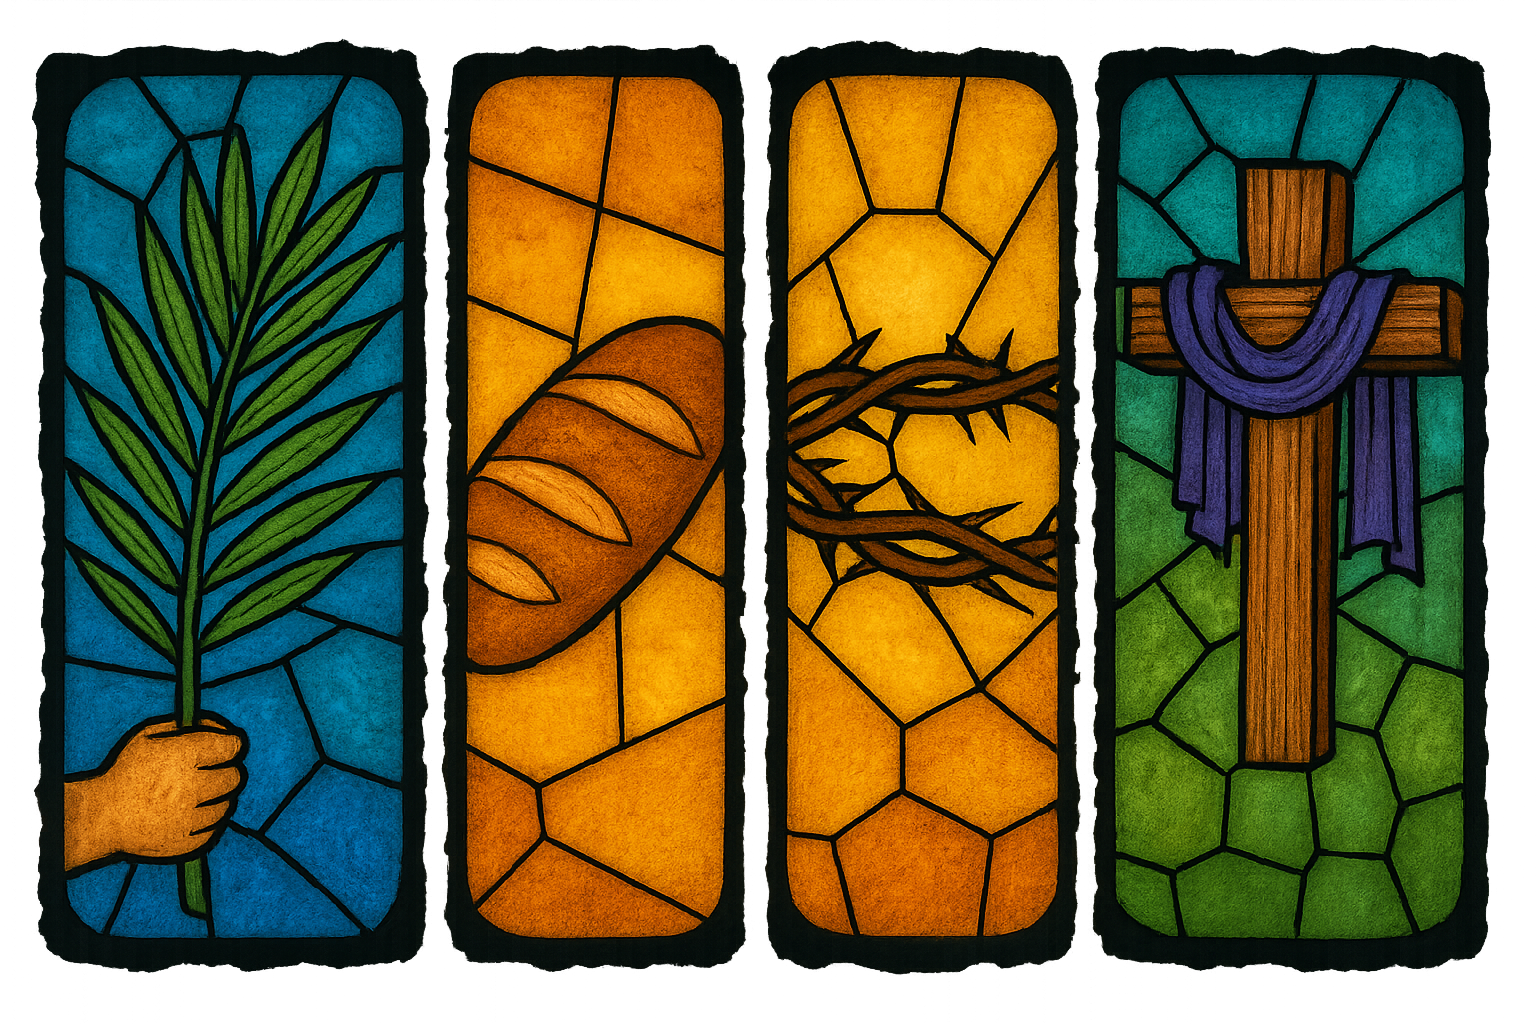
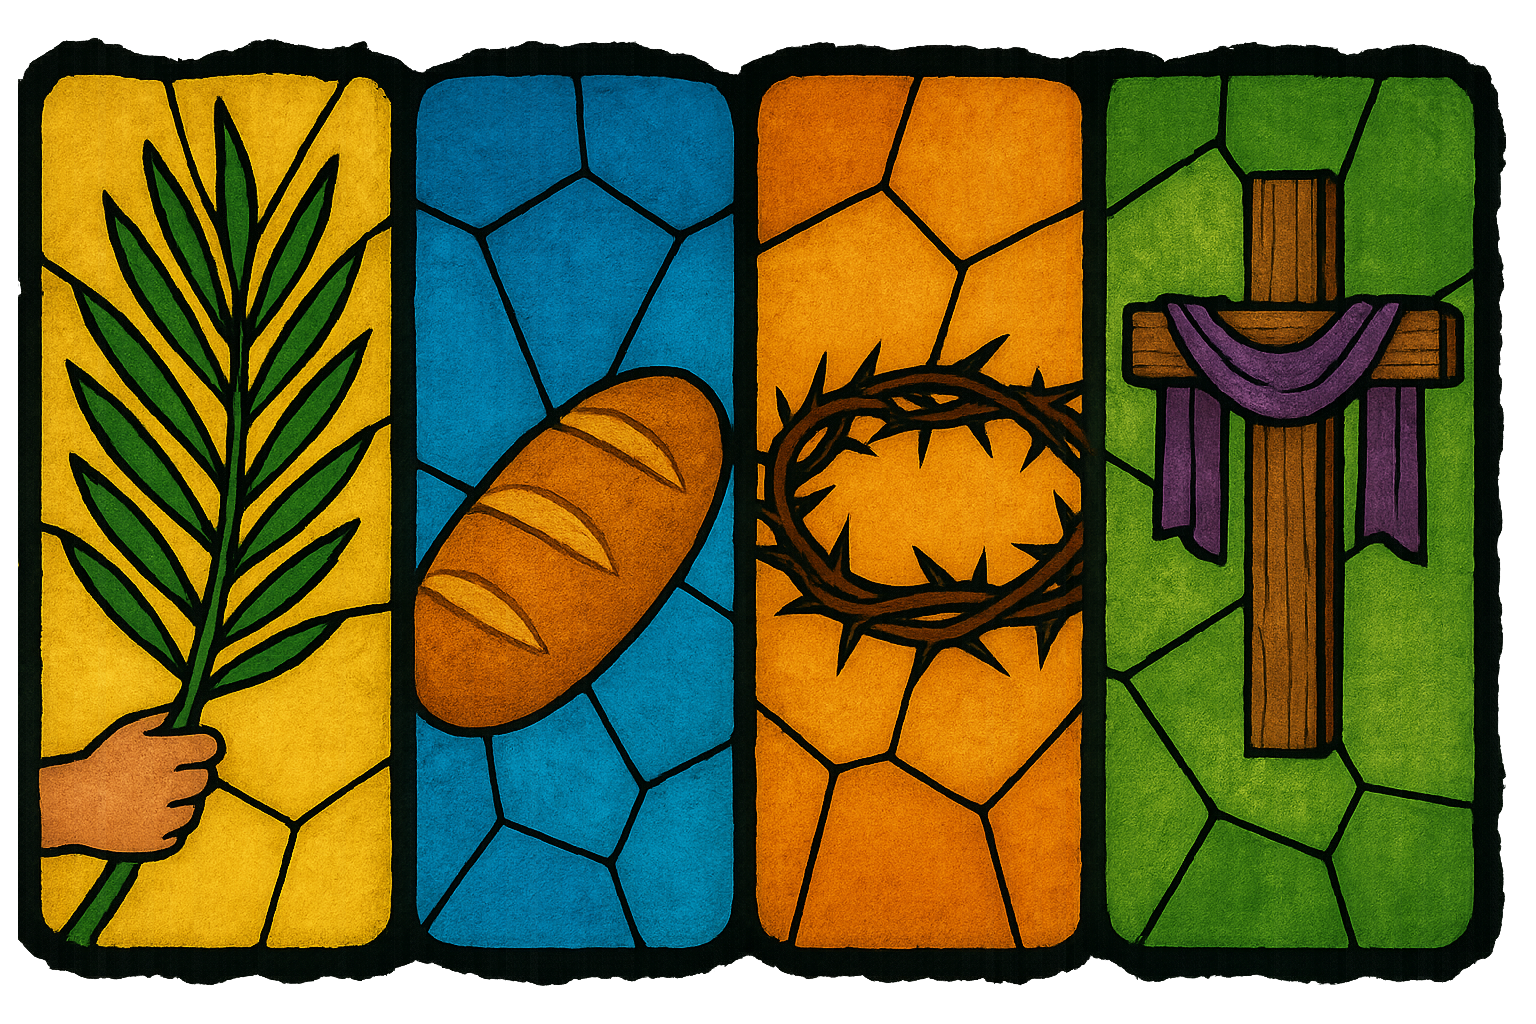
updated links and graphics

diff --git a/_posts/2025-04-17-holy-week.md b/_posts/2025-04-17-holy-week.md
@@ -6,101 +6,100 @@ tags: [easter, liturgy, church-history]
 ---
 <div style="text-align: center; margin: 20px 0;">
   <img src="/assets/images/holy-week.png" alt="AI Generated image of Holy Week" style="max-width: 100%; height: auto;">
+  <h5>“The Son of God became a man to enable men to become sons of God.”<br /> 
+ — C.S. Lewis, *Mere Christianity</h5>
 </div>
-
-> “The Son of God became a man to enable men to become sons of God.”  
-> — C.S. Lewis, *Mere Christianity*
 
 The week leading up to Easter represents the most significant period in the Christian liturgical calendar, commemorating the final days of Jesus Christ's life, his crucifixion, and his resurrection. Holy Week's observances have evolved over nearly two millennia, shaped by theological developments, cultural influences, and historical circumstances. Here we explore each day of Holy Week, from its earliest historical references to contemporary liturgical practices across Christian traditions.
 
 ## The Historical Development of Holy Week
 
-Holy Week observances trace back to the earliest centuries of Christianity, evolving from simple commemorations to the elaborate liturgical sequence we recognize today. The Paschal fast of Holy Week is considered the most ancient part of the Great Fast (Lent), already well attested by the second century in conjunction with the rites of Christian initiation through baptism[^7]. Initially spanning just one or two days, this fast lengthened to four and then to a full six days by the third century[^7].
+Holy Week observances trace back to the earliest centuries of Christianity, evolving from simple commemorations to the elaborate liturgical sequence we recognize today. The Paschal fast of Holy Week is considered the most ancient part of the Great Fast (Lent), already well attested by the second century in conjunction with the rites of Christian initiation through baptism[^6]. Initially spanning just one or two days, this fast lengthened to four and then to a full six days by the third century[^6].
 
-Dionysius of Alexandria, writing around 260 CE, provides one of the earliest sources for an incipient ritual of Holy Week in his Letter to Basiliades[^7]. By this period, Christians were already observing special fasting practices during the days leading to Easter. The Apostolical Constitutions (v. 18, 19), dating from the latter half of the 3rd century and 4th century, contains the earliest allusion to marking this week with special observances, commanding abstinence from flesh for all days and an absolute fast for Friday and Saturday[^1].
+Dionysius of Alexandria, writing around 260 CE, provides one of the earliest sources for an incipient ritual of Holy Week in his Letter to Basiliades[^6]. By this period, Christians were already observing special fasting practices during the days leading to Easter. The Apostolical Constitutions (v. 18, 19), dating from the latter half of the 3rd century and 4th century, contains the earliest allusion to marking this week with special observances, commanding abstinence from flesh for all days and an absolute fast for Friday and Saturday[^1].
 
-The fourth century brought tremendous development in Holy Week rituals, catalyzed by Constantine's conversion, the influx of new converts, and imperial interest in holy places[^7]. The most valuable historical account from this period comes from Egeria (sometimes called Etheria), a Spanish-Roman woman who pilgrimaged to the Holy Land between 381–384 CE[^5][^9][^13]. Her detailed diary provides the earliest complete description of the early church's liturgical celebration of Holy Week[^9].
+The fourth century brought tremendous development in Holy Week rituals, catalyzed by Constantine's conversion, the influx of new converts, and imperial interest in holy places[^6]. The most valuable historical account from this period comes from Egeria (sometimes called Etheria), a Spanish-Roman woman who pilgrimaged to the Holy Land between 381–384 CE[^4][^8][^11]. Her detailed diary provides the earliest complete description of the early church's liturgical celebration of Holy Week[^8].
 
 ## Palm Sunday: The Triumphal Entry
 
-Palm Sunday commemorates Christ's entry into Jerusalem, marking the beginning of Holy Week[^1][^8][^12]. The biblical accounts (Matthew 21:1–11, Mark 11:1–11, Luke 19:28–44, and John 12:12–19) describe Jesus riding into Jerusalem on a donkey while crowds spread cloaks and palm branches on the road, shouting "Hosanna!" — fulfilling the prophecy from Zechariah 9:9[^11][^14].
+Palm Sunday commemorates Christ's entry into Jerusalem, marking the beginning of Holy Week[^1][^7][^10]. The biblical accounts (Matthew 21:1–11, Mark 11:1–11, Luke 19:28–44, and John 12:12–19) describe Jesus riding into Jerusalem on a donkey while crowds spread cloaks and palm branches on the road, shouting "Hosanna!" — fulfilling the prophecy from Zechariah 9:9[^9][^12].
 
-The earliest known record of Palm Sunday observance comes from Egeria's travel diaries[^4][^9]. She described how believers in Jerusalem would gather near the Mount of Olives and then process down the mountain carrying palm or olive branches, singing psalms including Psalm 118, with the refrain "Blessed is he who comes in the name of the Lord"[^9].
+The earliest known record of Palm Sunday observance comes from Egeria's travel diaries[^3][^8]. She described how believers in Jerusalem would gather near the Mount of Olives and then process down the mountain carrying palm or olive branches, singing psalms including Psalm 118, with the refrain "Blessed is he who comes in the name of the Lord"[^8].
 
-In contemporary practice, Palm Sunday liturgies typically include three forms of observance: a full procession, a solemn entrance, or a simple rite[^4]. The service often transitions from joyful celebration to a solemn reading of the Passion narrative[^1][^9].
+In contemporary practice, Palm Sunday liturgies typically include three forms of observance: a full procession, a solemn entrance, or a simple rite[^3]. The service often transitions from joyful celebration to a solemn reading of the Passion narrative[^1][^8].
 
 ## Holy Monday and Tuesday: Days of Teaching and Confrontation
 
 ### Holy Monday
 
-On the day after his triumphal entry, Jesus returned to Jerusalem from Bethany, cursing the barren fig tree (symbolizing judgment on fruitless faith) and cleansing the Temple[^8][^14]. The Gospel of Matthew 21:18–43 is typically read on this day[^6].
+On the day after his triumphal entry, Jesus returned to Jerusalem from Bethany, cursing the barren fig tree (symbolizing judgment on fruitless faith) and cleansing the Temple[^7][^12]. The Gospel of Matthew 21:18–43 is typically read on this day[^5].
 
-In the Eastern Orthodox tradition, Holy Monday introduces the "Bridegroom" theme, focusing on watchfulness, symbolized by the Bridegroom coming "in the midst of the night"[^6].
+In the Eastern Orthodox tradition, Holy Monday introduces the "Bridegroom" theme, focusing on watchfulness, symbolized by the Bridegroom coming "in the midst of the night"[^5].
 
 ### Holy Tuesday
 
-Holy Tuesday continues Christ's teachings in Jerusalem, highlighting the parables of the Ten Virgins and the Talents[^8][^14]. Orthodox services continue the Bridegroom theme with hymns stressing spiritual preparedness[^6].
+Holy Tuesday continues Christ's teachings in Jerusalem, highlighting the parables of the Ten Virgins and the Talents[^7][^12]. Orthodox services continue the Bridegroom theme with hymns stressing spiritual preparedness[^5].
 
 ## Holy Wednesday (Spy Wednesday): The Betrayal
 
-Spy Wednesday commemorates Judas Iscariot’s betrayal of Jesus for thirty pieces of silver[^1][^8][^14]. In the East, it includes the final Presanctified Liturgy and the Holy Unction service[^6]. In the West, traditions include the Tenebrae service and Chrism Mass[^2][^10].
+Spy Wednesday commemorates Judas Iscariot’s betrayal of Jesus for thirty pieces of silver[^1][^7][^12]. In the East, it includes the final Presanctified Liturgy and the Holy Unction service[^5]. In the West, traditions include the Tenebrae service and Chrism Mass.
 
 ## Maundy Thursday: The Last Supper
 
-Maundy Thursday commemorates the Last Supper, the institution of the Eucharist, foot washing, and Jesus' agony in Gethsemane[^1][^2][^6][^8]. The term "Maundy" comes from *mandatum* — "a new commandment I give you" (John 13:34)[^2].
+Maundy Thursday commemorates the Last Supper, the institution of the Eucharist, foot washing, and Jesus' agony in Gethsemane[^1][^5][^7]. The term "Maundy" comes from *mandatum* — "a new commandment I give you" (John 13:34).
 
 Liturgical highlights include:
 
-1. The Washing of Feet[^2][^6][^10]  
-2. The Mass of the Lord's Supper[^2][^10]  
-3. The altar stripping[^2]  
-4. The transfer and adoration of the Blessed Sacrament[^2]  
+1. The Washing of Feet[^5] 
+2. The Mass of the Lord's Supper
+3. The altar stripping  
+4. The transfer and adoration of the Blessed Sacrament  
 
-Orthodox services feature the Liturgy of St. Basil and the Twelve Passion Gospels[^6]. Egeria noted the Jerusalem faithful kept vigil at the Mount of Olives without eating afterward[^9].
+Orthodox services feature the Liturgy of St. Basil and the Twelve Passion Gospels[^5]. Egeria noted the Jerusalem faithful kept vigil at the Mount of Olives without eating afterward[^8].
 
 ## Good Friday: The Crucifixion
 
-Good Friday solemnly marks Christ's crucifixion[^1][^2][^6][^8]. Egeria describes how the faithful gathered at Golgotha for readings and prayer during the hours Christ hung on the cross[^5][^9].
+Good Friday solemnly marks Christ's crucifixion[^1][^5][^7]. Egeria describes how the faithful gathered at Golgotha for readings and prayer during the hours Christ hung on the cross[^4][^8].
 
 Western liturgy typically includes:
 
-1. The Liturgy of the Word[^2][^10]  
-2. The Veneration of the Cross[^2][^10]  
-3. Communion from reserved hosts[^2]  
-4. The Stations of the Cross[^4][^5]  
+1. The Liturgy of the Word
+2. The Veneration of the Cross
+3. Communion from reserved hosts  
+4. The Stations of the Cross[^3][^4]  
 
-In Orthodoxy, the Royal Hours, Vespers of the Taking Down, and the Epitaphios procession are central[^6][^11]. Fasting is observed strictly across traditions[^1][^7].
+In Orthodoxy, the Royal Hours, Vespers of the Taking Down, and the Epitaphios procession are central[^5][^9]. Fasting is observed strictly across traditions[^1][^6].
 
 ## Holy Saturday: The Tomb
 
-Holy Saturday remembers Christ's rest in the tomb[^1][^8][^14]. It culminates in the Easter Vigil — the oldest Christian liturgical observance, as described by Egeria[^15].
+Holy Saturday remembers Christ's rest in the tomb[^1][^7][^12]. It culminates in the Easter Vigil — the oldest Christian liturgical observance, as described by Egeria[^13].
 
 Key components of the Vigil:
 
 1. The Service of Light[^1]  
-2. Liturgy of the Word (up to 9 readings)[^1][^2]  
-3. Baptismal rites[^1][^2][^10]  
-4. Eucharist — the first Mass of Easter[^1][^2]  
+2. Liturgy of the Word (up to 9 readings)[^1]  
+3. Baptismal rites[^1]
+4. Eucharist — the first Mass of Easter[^1]  
 
-Orthodox tradition includes the Divine Liturgy of St. Basil, transitioning from dark vestments to white[^6][^11].
+Orthodox tradition includes the Divine Liturgy of St. Basil, transitioning from dark vestments to white[^5][^9].
 
 ## Easter Sunday: The Resurrection
 
-Easter Sunday celebrates Christ’s resurrection, the cornerstone of Christian faith[^1][^2][^6][^8]. Though technically begun at the Vigil, Easter Sunday continues the celebration with joy.
+Easter Sunday celebrates Christ’s resurrection, the cornerstone of Christian faith[^1][^5][^7]. Though technically begun at the Vigil, Easter Sunday continues the celebration with joy.
 
-The term "Easter" has pagan roots, though most languages use “Pascha,” linking it to Passover[^1]. Orthodox services begin with a midnight procession and the call: “Christ is Risen!” — answered, “Indeed He is Risen!”[^6][^11].
+The term "Easter" has pagan roots, though most languages use “Pascha,” linking it to Passover[^1]. Orthodox services begin with a midnight procession and the call: “Christ is Risen!” — answered, “Indeed He is Risen!”[^5][^9].
 
 ## The Paschal Triduum: A Liturgical Unity
 
-Maundy Thursday to Easter Sunday is one unified liturgical celebration[^2][^10]. No final blessing on Thursday, no opening or closing on Friday, and no intro rites at the Vigil — each service flows into the next.
+Maundy Thursday to Easter Sunday is one unified liturgical celebration. No final blessing on Thursday, no opening or closing on Friday, and no intro rites at the Vigil — each service flows into the next.
 
-> "These great ceremonies are most truly understood as a single liturgy spread out over three days"[^2][^10].
+> "These great ceremonies are most truly understood as a single liturgy spread out over three days".
 
 ## Conclusion
 
 Holy Week stands as Christianity’s most profound liturgical period. From Egeria’s fourth-century diary to modern practice, its structure endures. Through Palm branches, Crosses, firelight, silence, water, oil, bread, and wine, the Church leads the faithful to relive Christ’s Passion and Resurrection.
 
-> “The purpose of Holy Week is to reenact, relive, and participate in the passion of Jesus Christ.”[^3]
+> “The purpose of Holy Week is to reenact, relive, and participate in the passion of Jesus Christ.”[^2]
 
 ### Additional Reading
 
@@ -113,17 +112,15 @@ Holy Week stands as Christianity’s most profound liturgical period. From Egeri
 ### Sources
 
 [^1]: [Holy Week - Wikipedia](https://en.wikipedia.org/wiki/Holy_Week)  
-[^2]: [THE LITURGY OF HOLY WEEK: entering the Paschal Mystery](https://spiritualdirection.com/wp-content/uploads/2015/03/the-liturgy-of-holy-week.pdf)  
-[^3]: [An Introduction to the Holy Week - Catholic News Agency](https://www.catholicnewsagency.com/resource/55487/an-introduction-to-the-holy-week)  
-[^4]: [Holy Week Rituals TIME](https://time.com/5567157/holy-week-history/)  
-[^5]: [Holy Week in Jerusalem - Egeria](https://renovare.org/articles/holy-week-in-jerusalem)  
-[^6]: [Holy Week in the Eastern Orthodox Church](https://www.goarch.org/-/holy-week-in-the-eastern-orthodox-church)  
-[^7]: [Development of Holy Week Services](https://ocl.org/the-historical-development-of-holy-week-services-in-orthodoxy/)  
-[^8]: [Holy Week Timeline Bible Study Tools](https://www.biblestudytools.com/bible-study/topical-studies/holy-week-timeline.html)  
-[^9]: [Egeria's Travels](https://stlukesportland.org/blog/egerias-travels-a-brief-history-and-overview-of-holy-week/)  
-[^10]: [Liturgy of Holy Week - St. Anthony Catholic Church](http://www.stanthonysdavenportiowa.org/liturgy-of-holy-week.html)  
-[^11]: [Holy Week in the Greek Orthodox Church](https://holytrinitydallas.org/our-faith/holy-week-in-the-greek-orthodox-church)  
-[^12]: [8 Days of Easter - Christianity.com](https://www.christianity.com/wiki/holidays/a-time-line-of-the-passion-week.html)  
-[^13]: [Egeria (pilgrim) - Wikipedia](https://en.wikipedia.org/wiki/Egeria_(pilgrim))  
-[^14]: [Bible Verses & Meaning of Holy Week](https://www.biblestudytools.com/bible-stories/holy-week-bible-story.html)  
-[^15]: [Egeria's Travels - Beckford Parish](https://www.shenandoahepiscopalians.org/egeria-travels-holy-week/)
+[^2]: [An Introduction to the Holy Week - Catholic News Agency](https://www.catholicnewsagency.com/resource/55487/an-introduction-to-the-holy-week)  
+[^3]: [Holy Week Rituals TIME](https://time.com/5567157/holy-week-history/)  
+[^4]: [Holy Week in Jerusalem - Egeria](https://renovare.org/articles/holy-week-in-jerusalem)  
+[^5]: [Holy Week in the Eastern Orthodox Church](https://www.goarch.org/-/holy-week-in-the-eastern-orthodox-church)  
+[^6]: [Development of Holy Week Services](https://ocl.org/the-historical-development-of-holy-week-services-in-orthodoxy/)  
+[^7]: [Holy Week Timeline Bible Study Tools](https://www.biblestudytools.com/bible-study/topical-studies/holy-week-timeline.html)  
+[^8]: [Egeria's Travels](https://stlukesportland.org/blog/egerias-travels-a-brief-history-and-overview-of-holy-week/)  
+[^9]: [Holy Week in the Greek Orthodox Church](https://holytrinitydallas.org/our-faith/holy-week-in-the-greek-orthodox-church)  
+[^10]: [8 Days of Easter - Christianity.com](https://www.christianity.com/wiki/holidays/a-time-line-of-the-passion-week.html)  
+[^11]: [Egeria (pilgrim) - Wikipedia](https://en.wikipedia.org/wiki/Egeria_(pilgrim))  
+[^12]: [Bible Verses & Meaning of Holy Week](https://www.biblestudytools.com/bible-stories/holy-week-bible-story.html)  
+[^13]: [Egeria's Travels - Beckford Parish](https://www.shenandoahepiscopalians.org/egeria-travels-holy-week/)
